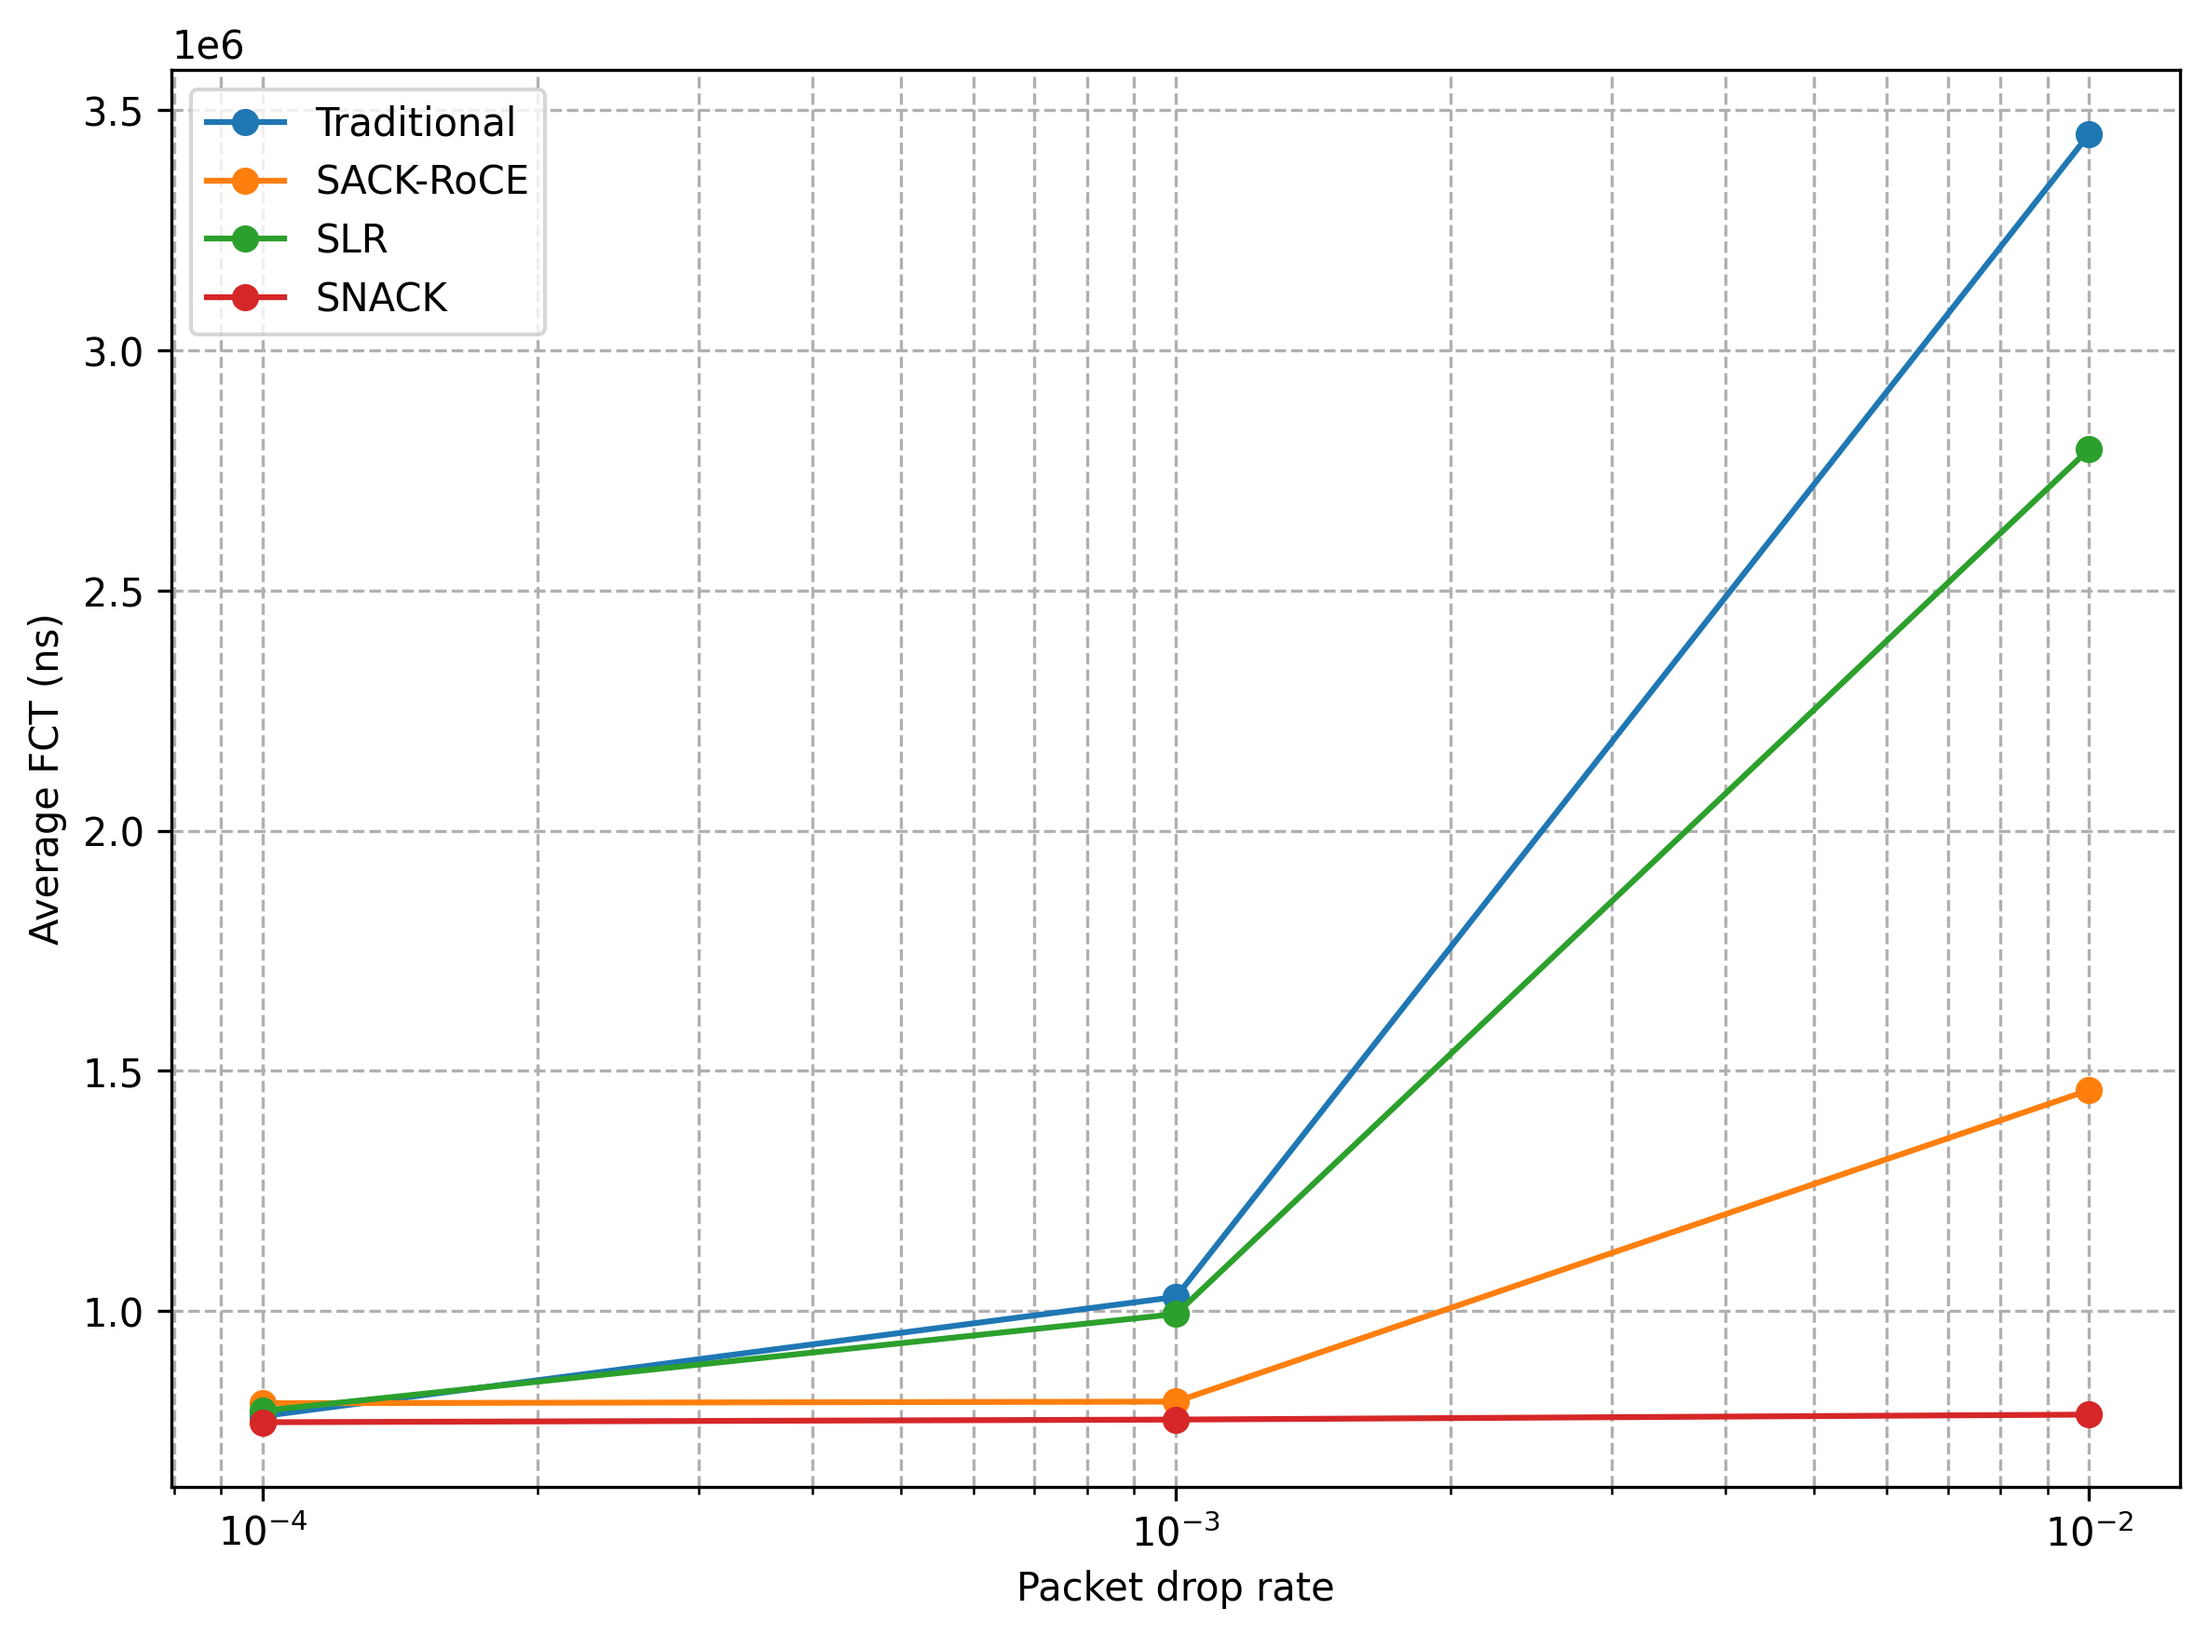
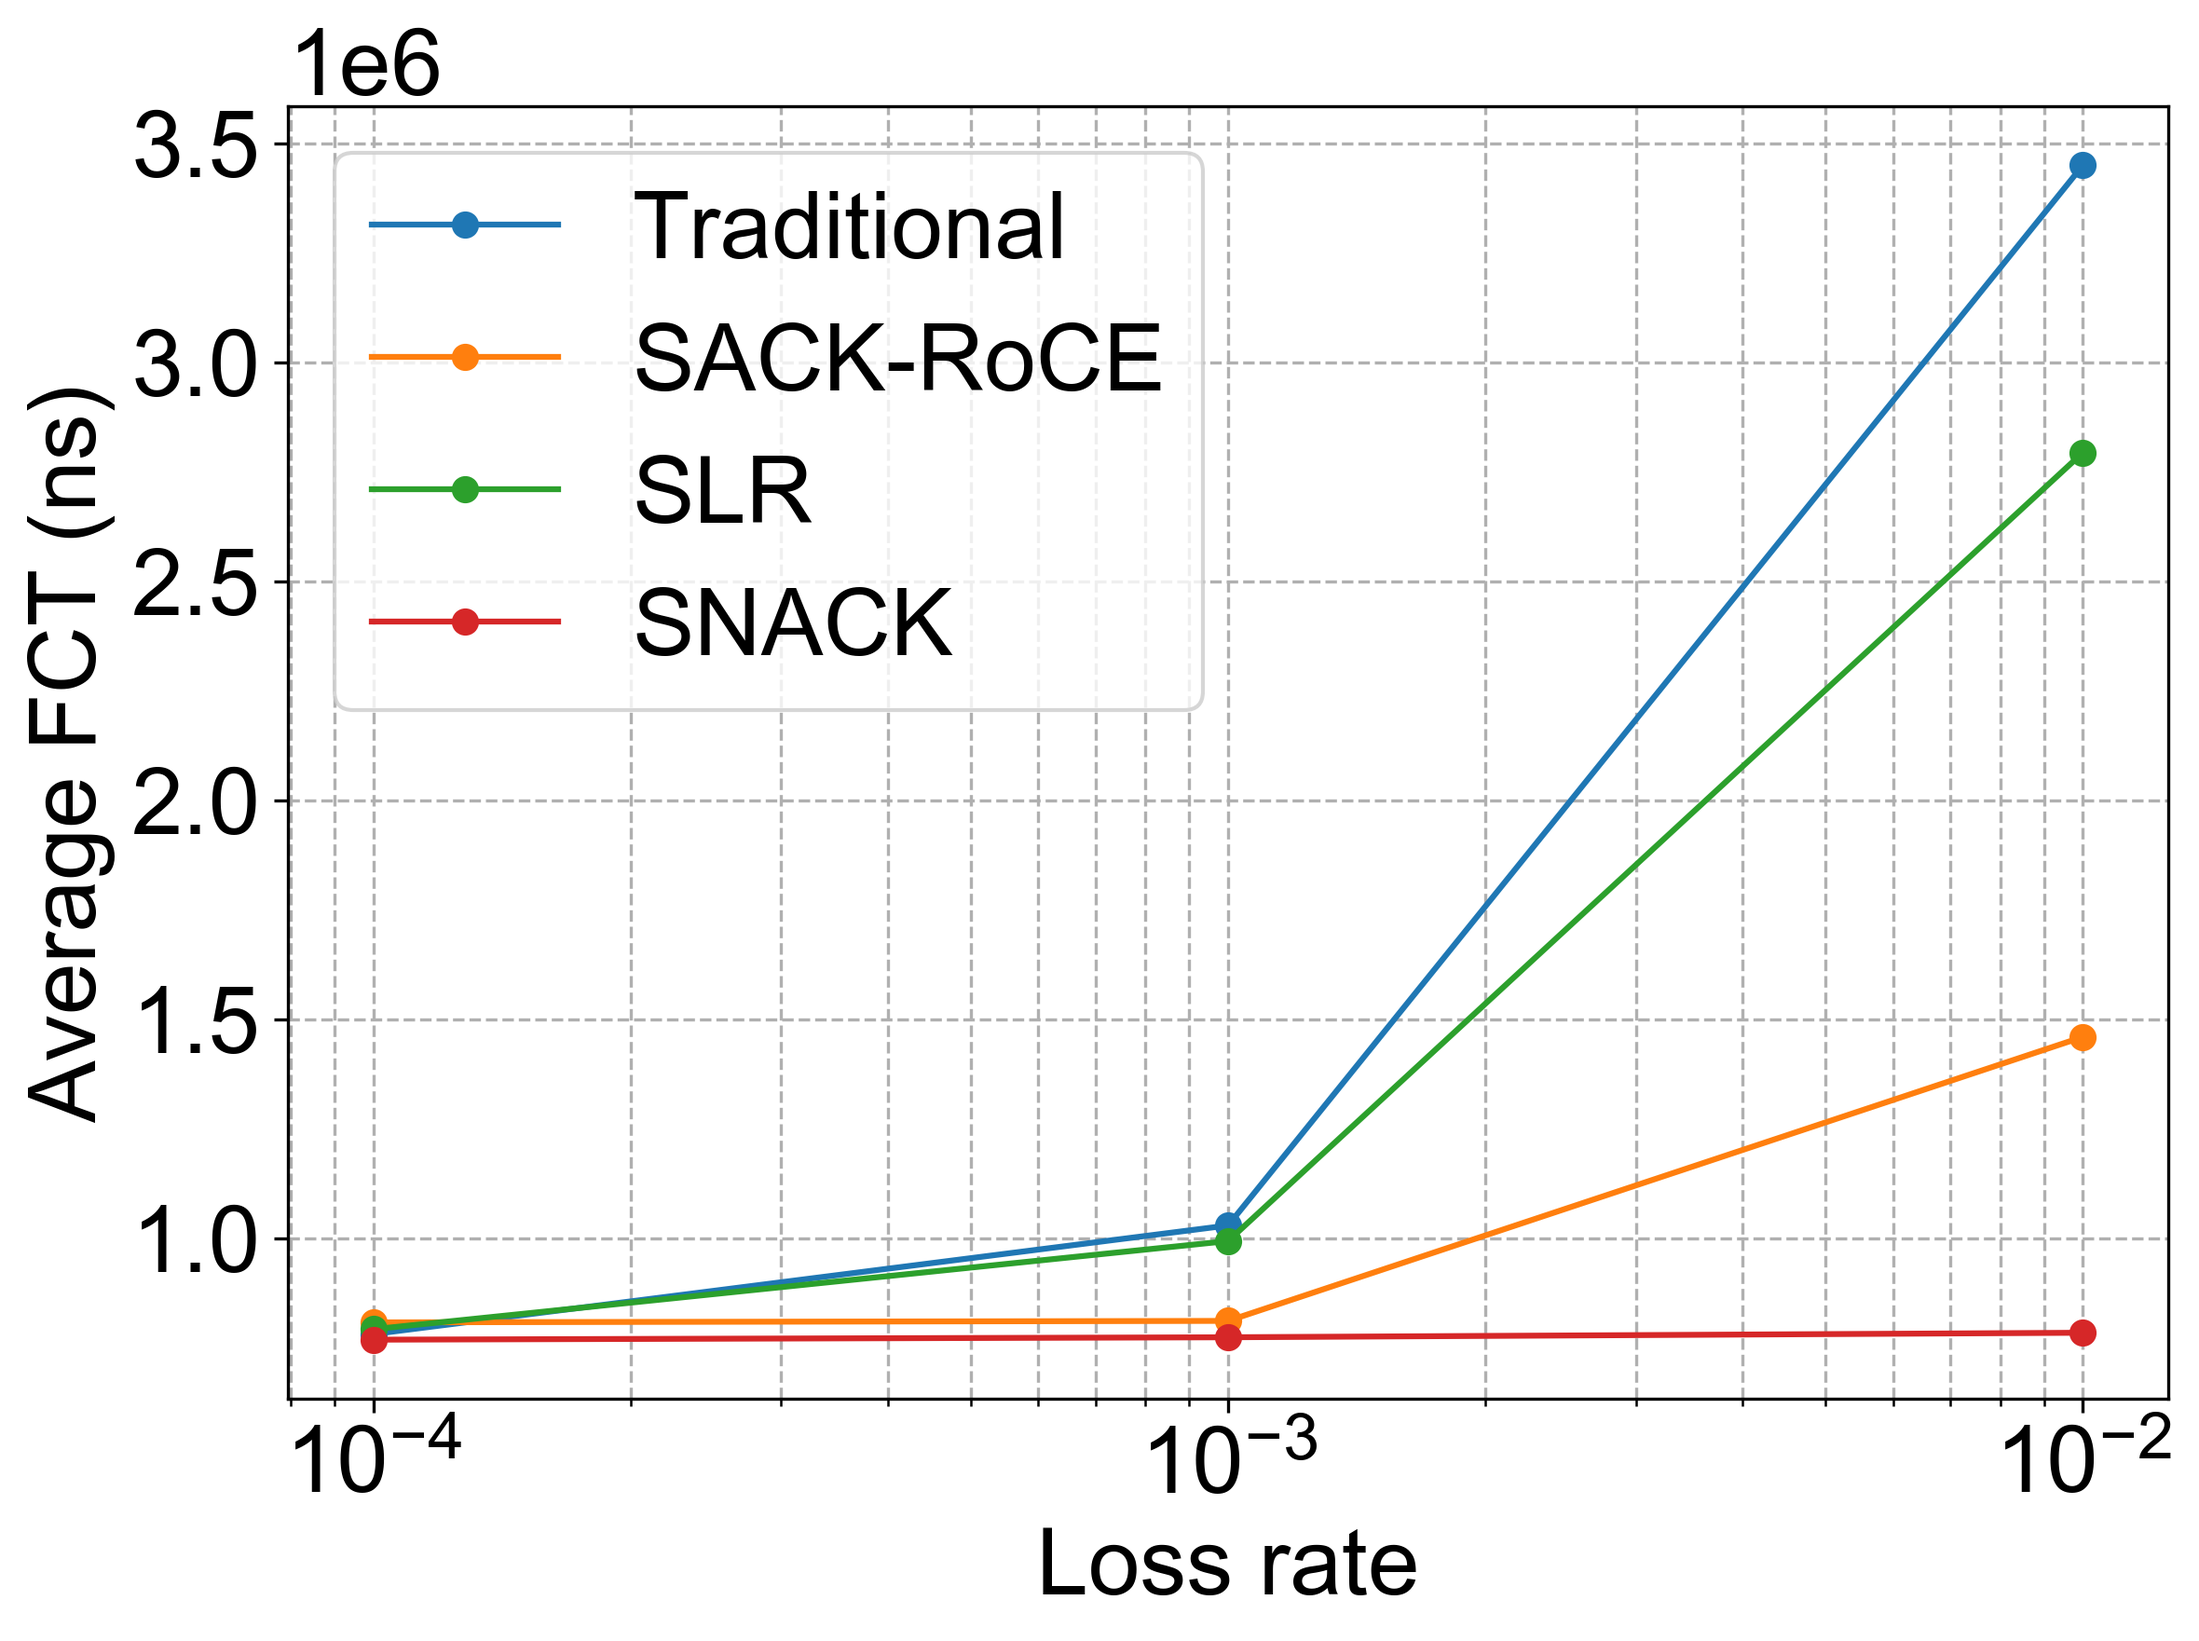
add font

diff --git a/fct.py b/fct.py
@@ -4,7 +4,6 @@ import numpy as np
 from matplotlib import rcParams
 import matplotlib
 from matplotlib.ticker import ScalarFormatter
-
 import seaborn as sns
 
 # 从Excel文件读取数据
@@ -16,6 +15,14 @@ print(df)
 plt.rcParams['font.family'] = ['Arial Unicode MS', 'Heiti TC', 'PingFang SC', 'STHeiti']
 plt.rcParams['font.sans-serif'] = plt.rcParams['font.family']
 
+font = 16
+
+# 设置全局字体大小
+plt.rcParams['axes.labelsize'] = font  # 坐标轴标签字体大小
+plt.rcParams['xtick.labelsize'] = font  # x轴刻度标签字体大小
+plt.rcParams['ytick.labelsize'] = font  # y轴刻度标签字体大小
+plt.rcParams['legend.fontsize'] = font  # 图例字体大小
+
 fig, ax1 = plt.subplots(1, 1, figsize=(8, 6))
 
 # 过滤掉 NaN 值
@@ -25,10 +32,10 @@ for algo in [a for a in df['算法选择'].unique() if pd.notna(a)]:
         ax1.plot(subset['丢包率'], subset['FCT(ns)'], 'o-', label=algo)
 
 ax1.set_xscale('log')
-ax1.set_xlabel('Packet drop rate')
-ax1.set_ylabel('Average FCT (ns)')
+ax1.set_xlabel('Loss rate', fontsize=font)  # 可以单独设置x轴标签大小
+ax1.set_ylabel('Average FCT (ns)', fontsize=font)  # 可以单独设置y轴标签大小
 # ax1.set_title('不同算法在不同丢包率下的FCT对比')
-ax1.legend()
+ax1.legend(fontsize=font)  # 也可以在这里单独设置图例大小
 ax1.grid(True, which="both", ls="--")
 
 # 设置纵坐标为科学计数法

diff --git a/throughput.py b/throughput.py
@@ -16,6 +16,14 @@ df['吞吐量下降百分比'] = (1 - df['相较于无损网络']) * 100
 plt.rcParams['font.family'] = ['Arial Unicode MS', 'Heiti TC', 'PingFang SC', 'STHeiti']
 plt.rcParams['font.sans-serif'] = plt.rcParams['font.family']
 
+font = 24
+
+# 设置全局字体大小
+plt.rcParams['axes.labelsize'] = font  # 坐标轴标签字体大小
+plt.rcParams['xtick.labelsize'] = font  # x轴刻度标签字体大小
+plt.rcParams['ytick.labelsize'] = font  # y轴刻度标签字体大小
+plt.rcParams['legend.fontsize'] = font  # 图例字体大小
+
 # 创建图形
 fig, ax2 = plt.subplots(figsize=(8, 6))
 
@@ -27,8 +35,8 @@ for algo in df['算法选择'].unique():
             ax2.plot(subset['丢包率'], subset['吞吐量(B/ns)'], 'o-', label=algo)
 ax2.axhline(y=lossless_throughput, color='r', linestyle='--', label='Lossless network')
 ax2.set_xscale('log')
-ax2.set_xlabel('Packet drop rate')
-ax2.set_ylabel('Throughput (B/ns)')
+ax2.set_xlabel('Loss rate', fontsize=font)
+ax2.set_ylabel('Throughput (B/ns)', fontsize=font)
 ax2.legend()
 ax2.grid(True, which="both", ls="--")
 
